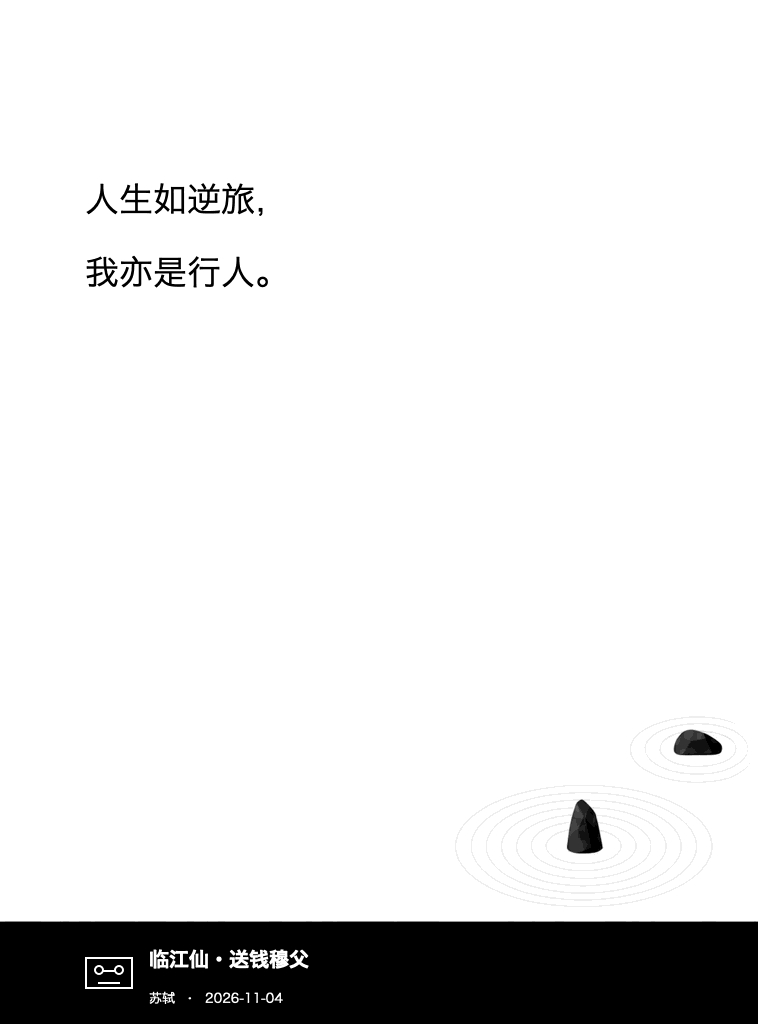
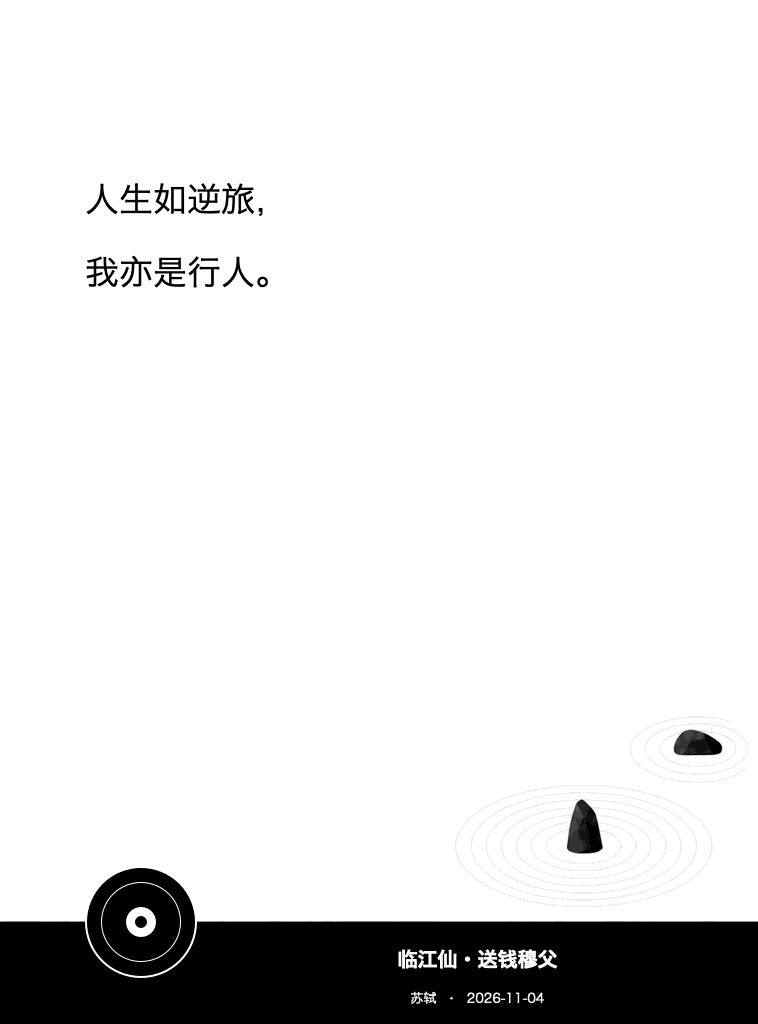
Center the footer title beside a half-exposed CD

diff --git a/tests/test_plugin.py b/tests/test_plugin.py
@@ -90,7 +90,7 @@ function text:new(t)
     function t:paintTo(_, x, y)
         assert(self:getSize().h > 0)
         table.insert(f.paints, { x = x, y = y, w = self.width, h = self:getSize().h,
-            size = self.face.size, bold = self.bold, line_height = self.line_height,
+            size = self.face.size, bold = self.bold, line_height = self.line_height, alignment = self.alignment,
             fg = self.fgcolor, bg = self.bgcolor, text = self.text })
     end
     function t:free() assert(not self.freed); self.freed = true; f.live_widgets = f.live_widgets - 1 end
@@ -227,7 +227,7 @@ class PluginTests(unittest.TestCase):
     def test_success_is_requested_only_once_even_after_settings_reset(self):
         self.refresh()
         self.assertTrue((self.path / (self.date + ".png")).exists())
-        self.assertEqual(json.loads((self.path / (self.date + ".json")).read_text())["layout_version"], 4)
+        self.assertEqual(json.loads((self.path / (self.date + ".json")).read_text())["layout_version"], 5)
         self.f.settings.data = self.lua.table()
         self.refresh()
         self.assertEqual(self.f.requests, 1)
@@ -293,16 +293,21 @@ class PluginTests(unittest.TestCase):
         self.assertLessEqual(source.h, 41)
         self.assertLess(source.y + source.h, self.f.paints[3].y)
 
-    def test_cassette_and_title_fit_on_a_high_resolution_screen(self):
+    def test_disc_straddles_footer_and_title_centers_in_remaining_space(self):
         self.f.screen_width, self.f.screen_height, self.f.screen_scale = 1440, 1920, 2.4
         self.payload.update({"from": "一次长途旅行", "from_who": "作者"})
         self.cache()
         self.refresh()
-        footer, cassette = self.f.shapes[1], self.f.shapes[2]
+        footer, disc = self.f.shapes[1], self.f.shapes[2]
         body, title, metadata = [self.f.paints[i] for i in (1, 2, 3)]
-        self.assertEqual((body.x, cassette.x), (cassette.x, 161))
-        self.assertGreaterEqual(cassette.y, footer.y)
-        self.assertLess(cassette.x + cassette.w, title.x)
+        self.assertEqual(disc.kind, "circle")
+        self.assertEqual(disc.x - disc.radius, body.x)
+        self.assertEqual(disc.y, footer.y)
+        self.assertLess(disc.y - disc.radius, footer.y)
+        self.assertLess(disc.y + disc.radius, 1920)
+        self.assertEqual(title.x - (disc.x + disc.radius), 1440 - (title.x + title.w))
+        self.assertEqual(title.alignment, "center")
+        self.assertEqual((title.x, title.w, title.alignment), (metadata.x, metadata.w, metadata.alignment))
         self.assertEqual(title.text, "一次长途旅行")
         self.assertTrue(metadata.text.startswith("作者  ·  "))
         self.assertLess(title.y + title.h, metadata.y)

diff --git a/README.md b/README.md
@@ -2,7 +2,7 @@
 
 为 Kindle 上的 KOReader 每天获取一句[一言](https://developer.hitokoto.cn/sentence/)，生成设备分辨率的灰度 PNG，并可自动把 KOReader 睡眠屏保切换为这张壁纸。
 
-当前版本 **1.2.0** 使用白色背景、左上方分行正文和右下角石头与淡水波纹。底部黑栏以磁带图标和书名或歌名呈现播放器样式，下方小字显示作者和日期。
+当前版本 **1.2.1** 使用白色背景、左上方分行正文和右下角石头与淡水波纹。左下角的圆形 CD 一半露出黑栏。书名或歌名在 CD 右侧的空间内居中，下方小字显示作者和日期。
 
 ## 安装
 
